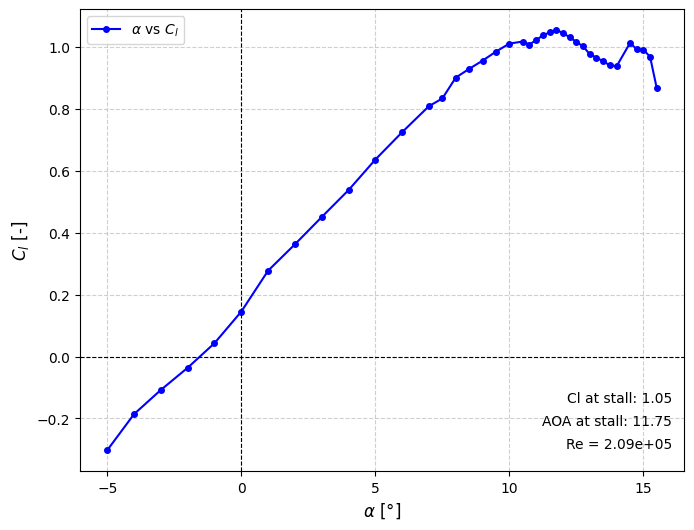
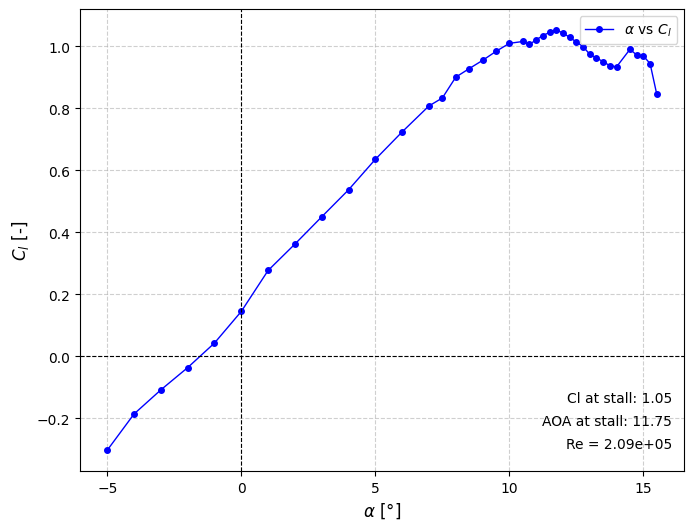
more or less final

diff --git a/twoD_Datapoint.py b/twoD_Datapoint.py
@@ -2,13 +2,14 @@ import os
 import math as mt
 import scipy as sc
 import numpy as np
+from itertools import cycle
 import matplotlib.pyplot as plt
 
 import twoD_Tap_Pos_Data_Reader as tappos
 
 # integration quality parameter
-int_sub_div_lim: int = 100  # Increase the maximum sc.integrate integration quality
-int_error_tolerance = 1e-6  # Increases sc.integrate integration quality by making it take more samples
+int_sub_div_lim: int = 1000  # Increase the maximum sc.integrate integration quality
+int_error_tolerance = 1e-8  # Increases sc.integrate integration quality by making it take more samples
 
 #plotting constants
 plt_line_width = 1
@@ -190,18 +191,18 @@ class twoD_DP:
         y_start = 0.0
         y_end = max(self.rake_pos_taps_total_p)
 
-        # # Find exact location where to integrate
-        # Sample_definition = 500
-        # v_deficit_threshold = 0.  # small threshold to make sure small positive deficits don't have a huge impact
-        # y_array = np.linspace(y_start, y_end, Sample_definition)
-        # for i in y_array:
-        #     if velocity_deficit(i) > v_deficit_threshold:
-        #         y_start = i
-        #         break
-        # for i in y_array:
-        #     if velocity_deficit(y_end - i) > v_deficit_threshold:
-        #         y_end = y_end - i
-        #         break
+        # Find exact location where to integrate
+        Sample_definition = 1000
+        v_deficit_threshold = 0  # small threshold to make sure small positive deficits don't have a huge impact
+        y_array = np.linspace(y_start, y_end, Sample_definition)
+        for i in y_array:
+            if velocity_deficit(i) > v_deficit_threshold:
+                y_start = i
+                break
+        for i in y_array:
+            if velocity_deficit(y_end - i) > v_deficit_threshold:
+                y_end = y_end - i
+                break
 
         print(self.aoa, " ", y_start, " ", y_end)
 
@@ -415,7 +416,7 @@ class twoD_DP:
         plt.show()
         plt.close()  # Close the figure to free memory
 
-    def plot_Velocity_at_rake(self, save: bool = False):
+    def plot_rake_velocity_profile(self, save: bool = False):
         V_at_rake = []
         for y in self.rake_pos_taps_total_p:
             q_inf_at_rake = self.rake_total_p_func(y) - self.rake_static_p_func(y)
@@ -562,6 +563,7 @@ class twoD_DP:
             self.rake_pos_taps_static_p,
             p_static_deficit,
             color="blue",
+            linewidth = plt_line_width,
             marker='s',
             markersize=plt_square_marker_size,
             label="Static p deficit (blue)"
@@ -638,6 +640,7 @@ def plot_CL_AOA_curve(datapoints: list[twoD_DP], mode: str = "rake", save: bool 
         Cl_s,
         color="blue",
         marker='.',
+        linewidth=plt_line_width,
         label=r"$\alpha$ vs $C_l$",
         markersize=plt_circle_marker_size
     )
@@ -646,15 +649,18 @@ def plot_CL_AOA_curve(datapoints: list[twoD_DP], mode: str = "rake", save: bool 
             AOA_s2,
             Cl_s2,
             color="green",
-            marker='.',
+            marker='s',
+            linewidth=plt_line_width,
             label=r"$\alpha$ vs $C_l$ hysteresis",
-            markersize=plt_circle_marker_size
+            markersize=plt_square_marker_size
         )
     if mode == "compare":
         plt.plot(
             AOA_s,
             Cl_s,
-            color="blue",
+            color="red",
+            linestyle='--',  # Dashed line
+            linewidth=plt_line_width,
             marker='s',
             label=r"$\alpha$ vs $C_l$ from surface p",
             markersize=plt_square_marker_size
@@ -663,7 +669,9 @@ def plot_CL_AOA_curve(datapoints: list[twoD_DP], mode: str = "rake", save: bool 
             plt.plot(
                 AOA_s2,
                 Cl_s2,
-                color="green",
+                color="magenta",
+                linestyle='--',  # Dashed line
+                linewidth = plt_line_width,
                 marker='s',
                 label=r"$\alpha$ vs $C_l$ hysteresis from surface p",
                 markersize=plt_square_marker_size
@@ -760,6 +768,7 @@ def plot_drag_polar(datapoints: list[twoD_DP], mode: str = "rake", save: bool = 
         Cl_s,
         color="blue",
         marker='.',
+        linewidth=plt_line_width,
         markersize=plt_circle_marker_size,
         label=r"$C_l$ vs $C_d$"
     )
@@ -769,6 +778,7 @@ def plot_drag_polar(datapoints: list[twoD_DP], mode: str = "rake", save: bool = 
             Cl_s2,
             color="green",
             marker='.',
+            linewidth=plt_line_width,
             markersize=plt_circle_marker_size,
             label=r"$C_l$ vs $C_d$ hysteresis"
         )
@@ -790,6 +800,7 @@ def plot_drag_polar(datapoints: list[twoD_DP], mode: str = "rake", save: bool = 
             color="red",
             linestyle='--',  # Dashed line
             marker='s',
+            linewidth=plt_line_width,
             markersize=plt_square_marker_size,
             label=r"$C_l$ vs $C_d $ from surface p"
         )
@@ -800,6 +811,7 @@ def plot_drag_polar(datapoints: list[twoD_DP], mode: str = "rake", save: bool = 
                 color="magenta",
                 linestyle='--',  # Dashed line
                 marker='s',
+                linewidth = plt_line_width,
                 markersize=plt_square_marker_size,
                 label=r"$C_l$ vs $C_d$ hysteresis from surface p"
             )
@@ -871,6 +883,7 @@ def plot_Cm_AOA_curve(datapoints: list[twoD_DP], mode="quarter", save: bool = Fa
         Cm_s,
         color="blue",
         marker='.',
+        linewidth=plt_line_width,
         markersize=plt_circle_marker_size,
         label=label
     )
@@ -922,6 +935,7 @@ def plot_Xcp_AOA_curve(datapoints: list[twoD_DP], save: bool = False):
         Xcp_s,
         color="blue",
         marker='.',
+        linewidth=plt_line_width,
         label=r"$\alpha$ vs $X_{Cp}$",
         markersize=plt_circle_marker_size
     )
@@ -947,6 +961,59 @@ def plot_Xcp_AOA_curve(datapoints: list[twoD_DP], save: bool = False):
         os.makedirs(plt_save_directory, exist_ok=True)  # Ensure the directory exists
         file_path = os.path.join(plt_save_directory, f"2D_Xcp-alpha_plot.png")
         plt.savefig(file_path, bbox_inches='tight', pad_inches=plt_save_pad_inches)
+    # Display the plot, after saving it
+    plt.show()
+    plt.close()  # Close the figure to free memory
+
+def plot_multiple_velocity_profiles(datapoints: list[twoD_DP], save: bool = False):
+    # plot the velocities at the rake
+    plt.figure(figsize=(7.8, 6))
+    # different colors for the different graphs, cycle back in case we have more than 10
+    colors = cycle([
+        'red', 'blue', 'green', 'purple', 'orange', 'cyan', 'magenta',
+        'brown', 'lime', 'pink', 'teal', 'gold', 'navy', 'olive', 'gray'
+    ])
+    # obtain and plot velocity profiles for the different datapoints
+    Re_num_s = np.array([datPt.get_Re_inf() for datPt in datapoints])
+    aos_s_str = "AOAs_"
+    for datPt in datapoints:
+        V_at_rake = []
+        for y in datPt.rake_pos_taps_total_p:
+            q_inf_at_rake = datPt.rake_total_p_func(y) - datPt.rake_static_p_func(y)
+            V_inf_at_rake = mt.sqrt((2 * q_inf_at_rake) / datPt.rho)
+            V_at_rake.append(V_inf_at_rake)
+        aos_s_str += (str(datPt.aoa) + "_")
+        color = next(colors)
+        plt.plot(
+            datPt.rake_pos_taps_total_p,
+            V_at_rake,
+            color=color,
+            marker='s',
+            label=rf'u_1 $\alpha$ = {datPt.aoa}° ({color})',
+            linewidth=plt_line_width,
+            markersize=plt_square_marker_size,
+        )
+    # Display the average reynolds number in the bottom-left corner
+    Re_avg = sum(Re_num_s) / len(Re_num_s)
+    plt.text(
+        0.98, 0.05,
+        f"Re = {Re_avg:.2e}",  # format in scientific notation
+        transform=plt.gca().transAxes,
+        fontsize=plt_text_font_size,
+        horizontalalignment='right'
+    )
+    # label the plot
+    plt.legend(fontsize=plt_legend_font_size)
+    plt.xlabel("Position along the rake [m]", fontsize=plt_axis_font_size)
+    plt.ylabel(r"Velocity at rake $u_1$ [m/s]$", fontsize=plt_axis_font_size)
+    # Make a grid in the background for better readability
+    plt.grid(True, linestyle='--', alpha=0.6)
+    # saving
+    if save:
+        path = "2D_multiple_rake_velocity_profiles"+aos_s_str+".png"
+        os.makedirs("Plots", exist_ok=True)  # Ensure the directory exists
+        full_file_path = os.path.join(plt_save_directory, path)
+        plt.savefig(full_file_path, bbox_inches='tight', pad_inches=plt_save_pad_inches)
     # Display the plot, after saving it
     plt.show()
     plt.close()  # Close the figure to free memory

diff --git a/twoD_plotter.py b/twoD_plotter.py
@@ -2,23 +2,31 @@ from twoD_Data_Reader import datapoints
 import twoD_Datapoint as dp
 
 # uncomment what you want to plot
+# add save=True for graph to be saved in a plots folder in the same directory (or change from twoD_Datapoint)
 
 #for i in datapoints:
-#     i.plot_Velocity_at_rake()
-#      i.plot_pressures()
-#      i.plot_Cp()
-#      i.plot_Velocity_Deficit()
-#      i.plot_Velocity_Deficit(mode="fraction",neg_noise_reduction=False)
-#      i.plot_Velocity_Deficit(mode="actual")
-#      i.plot_Velocity_Deficit(mode="actual",neg_noise_reduction=False)
-#      i.plot_static_pressure_Deficit()
-# dp.plot_CL_AOA_curve(datapoints[0:39:],mode="surface") # Cl-a plot form surface taps only
-# dp.plot_CL_AOA_curve(datapoints[0:39:]) # Cl-a plot actual
-# dp.plot_CL_AOA_curve(datapoints,color_split= 39) # # Cl-a plot hysteresis values included
+#    i.plot_rake_velocity_profile()
+#      i.plot_pressures() # pressures on airfoil
+#      i.plot_Cp() # Cps on airfoil
+#      i.plot_Velocity_Deficit() # velocity deficit faction
+#      i.plot_Velocity_Deficit(mode="fraction",neg_noise_reduction=False) # same with no noise reduction
+#      i.plot_Velocity_Deficit(mode="actual") # actual deficit in m/s
+#      i.plot_Velocity_Deficit(mode="actual",neg_noise_reduction=False) # same with no noise reduction
+#      i.plot_static_pressure_Deficit() # static pressure deficit
 
-# dp.plot_drag_polar(datapoints[0:39:], mode="compare") # Cd-Cl plot form surface taps only
-# dp.plot_drag_polar(datapoints[0:39:]) # Cd-Cl plot actual
+# dp.plot_multiple_velocity_profiles(datapoints[13:39:12]) # multiple velocity profiles
+
+# dp.plot_CL_AOA_curve(datapoints[0:39:],mode="surface") # Cl-a plot form surface taps only
+# dp.plot_CL_AOA_curve(datapoints[0:39:], save=True) # Cl-a plot actual
+# dp.plot_CL_AOA_curve(datapoints[0:39:],mode="compare") # compare from wake rake and from pressure taps
+# dp.plot_CL_AOA_curve(datapoints,color_split= 39) # Cl-a plot hysteresis values included
+# dp.plot_CL_AOA_curve(datapoints,color_split= 39,mode="compare") # Cl-a plot hysteresis values included and comparison between rake and surface data
+
+# dp.plot_drag_polar(datapoints[0:39:], mode="surface") # Cd-Cl plot form surface taps only
+# dp.plot_drag_polar(datapoints[0:39:],save=True) # Cd-Cl plot actual
+# dp.plot_drag_polar(datapoints[0:39:], mode="compare") # compare from wake rake and from pressure taps
 # dp.plot_drag_polar(datapoints,color_split= 39) # Cd-Cl plot hysteresis values included
+# dp.plot_drag_polar(datapoints,color_split= 39, mode="compare") # Cd-Cl plot hysteresis values included and comparison between rake and surface data
 
 # dp.plot_Xcp_AOA_curve(datapoints[0:39:]) # X_cp vs aoa plot
 # dp.plot_Cm_AOA_curve(datapoints[0:39:],mode="quarter") #Cm_c/4 vs aoa plot
